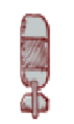
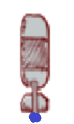
Update
Big Update

Changed region(s): [[0.3784, 0.8952, 0.5676, 0.9919]]

diff --git a/enemy.py b/enemy.py
@@ -1,43 +1,99 @@
 from player import xy
 import pygame
 import random
-ST2=0
+ST=5
 size=[40,55]
+size2=[20,25]
+xye=[0,0]
 class EmeCar(pygame.sprite.Sprite):
-    def __init__(self):
+        def __init__(self):
                 pygame.sprite.Sprite.__init__(self)
-                self.xy=[0,0]
+                self.xy=xye
                 self.image=pygame.image.load("./img/tanke.png").convert_alpha()
                 self.image=pygame.transform.scale(self.image,size)
                 self.rect=self.image.get_rect()
                 self.re=0
                 self.V=1
+                self.angle=0
+                self.bmove=0
+                self.towards=4
                 self.posi=self.rect
-    def update(self):#the main function of enemy
-        posi=self.rect
-        self.image=pygame.image.load("./img/tanke.png").convert_alpha()
-        self.image=pygame.transform.scale(self.image,size)
-        self.move=random.randint(1,2)
-        if xy[0]<self.xy[0]:
-                self.xy[0]-=self.V
-                self.image=pygame.transform.rotate(self.image,90)
-                pygame.time.wait(ST2)
-        if xy[0]>self.xy[0]:
-                self.xy[0]+=self.V
-                self.image=pygame.transform.rotate(self.image,-90)
-                pygame.time.wait(ST2)
-        if xy[1]>self.xy[1]:
-                self.xy[1]+=self.V
-                self.image=pygame.transform.rotate(self.image,180)
-                pygame.time.wait(ST2)
-        if xy[1]<self.xy[1]:
-                self.xy[1]-=self.V
-                pygame.time.wait(ST2)
-        self.posi=posi.move(self.xy)
-    def Create(self):
-        if self.re==0:
-                self.xy[0]=random.randint(0,1550)
-                self.xy[1]=random.randint(0,850)
-                if xy[1]-100<=self.xy[1]<=xy[1]+100 and xy[0]-100<=self.xy[0]<=xy[0]+100:
-                        self.re=0
-                self.re+=1
+        def update(self):#the main function of enemy
+                posi=self.rect
+                self.image=pygame.image.load("./img/tanke.png").convert_alpha()
+                self.image=pygame.transform.scale(self.image,size)
+                self.move=random.randint(1,200)
+                if xy[0]<xye[0]:
+                        xye[0]-=self.V
+                        self.image=pygame.transform.rotate(self.image,90)
+                        self.angle=90
+                        self.towards=1
+                if xy[0]>xye[0]:
+                        xye[0]+=self.V
+                        self.image=pygame.transform.rotate(self.image,-90)
+                        self.angle=-90
+                        self.towards=3
+                if xy[1]>xye[1]:
+                        xye[1]+=self.V
+                        self.image=pygame.transform.rotate(self.image,180)
+                        self.angle=180
+                        self.towards=2
+                if xy[1]<xye[1]:
+                        xye[1]-=self.V
+                        self.angle=0
+                        self.towards=4
+                if self.move<=100 and self.bmove==0:
+                        self.bmove=1
+                if self.bmove==2:
+                        pygame.time.wait(ST)
+                        self.bmove=0
+                self.posi=posi.move(self.xy)
+                
+        def Create(self):
+                if self.re==0:
+                        xye[0]=random.randint(0,1550)
+                        xye[1]=random.randint(0,850)
+                        if xy[1]-100<=xye[1]<=xy[1]+100 and xy[0]-100<=xye[0]<=xy[0]+100:
+                                self.re=0
+                        self.re+=1
+                
+class EnBullet(pygame.sprite.Sprite):
+        def __init__(self):
+                pygame.sprite.Sprite.__init__(self)
+                self.image=pygame.image.load("./img/bullete.png").convert_alpha()
+                self.image=pygame.transform.scale(self.image,size)
+                self.v=5
+                self.rect=self.image.get_rect()
+                self.posi=self.rect
+                self.move=0
+                self.toward=4
+                self.angle=0
+                self.xy=[0,0]
+        def update(self):
+                posi=self.rect
+                if self.move==0:
+                        self.image=pygame.image.load("./img/K.png").convert_alpha()
+                        self.xy[0]=xye[0]
+                        self.xy[1]=xye[1]
+                else:
+                        if self.move==1:
+                                self.image=pygame.image.load("./img/bullete.png").convert_alpha()
+                                self.image = pygame.transform.scale(self.image, size)
+                                if self.toward==4:
+                                        self.xy[1]-=self.v
+                                if self.toward==2:
+                                        self.xy[1]+=self.v
+                                        self.image=pygame.transform.rotate(self.image,180)
+                                if self.toward==3:
+                                        self.xy[0]+=self.v
+                                        self.image=pygame.transform.rotate(self.image,-90)
+                                if self.toward==1:
+                                        self.xy[0]-=self.v
+                                        self.image=pygame.transform.rotate(self.image,90)
+                                if self.xy[0]<0 or self.xy[0]>1550 or self.xy[1]>850 or self.xy[1] < 0:
+                                        self.move=0
+                        if self.move==2:
+                                pygame.time.wait(ST)
+                                self.move=0
+                self.posi=posi.move(self.xy)
+                

diff --git a/player.py b/player.py
@@ -8,13 +8,12 @@ move=0
 py=pygame
 x=0
 y=0
+ST=5
 clock = pygame.time.Clock()
 size=[40,55]
 size2=[55,43]
 sizet=[20,25]
-ST=2
-xy=[0,0]
-ST2=0    
+xy=[0,0]  
 class Player(pygame.sprite.Sprite):
         def __init__(self):
                 pygame.sprite.Sprite.__init__(self)
@@ -37,25 +36,21 @@ class Player(pygame.sprite.Sprite):
                                 self.image =py.image.load("./img/tankt.png").convert_alpha()
                                 self.image = pygame.transform.scale(self.image, size)
                                 self.image=py.transform.rotate(self.image,90)
-                                pygame.time.wait(ST)
                         if keys[pygame.K_RIGHT] or keys[pygame.K_d]:
                                 xy[0] +=self.v
                                 self.image =py.image.load("./img/tankt.png").convert_alpha()
                                 self.image = pygame.transform.scale(self.image, size)
                                 self.image=py.transform.rotate(self.image,-90)
-                                pygame.time.wait(ST)
                 if not keys[pygame.K_RIGHT] and not  keys[pygame.K_d] and not keys[pygame.K_LEFT] and not keys[pygame.K_a]:
                         if keys[pygame.K_UP] or keys[pygame.K_w]:
                                 xy[1] -=self.v
                                 self.image =py.image.load("./img/tankt.png").convert_alpha()
                                 self.image = pygame.transform.scale(self.image, size)
-                                pygame.time.wait(ST)
                         if keys[pygame.K_DOWN] or keys[pygame.K_s]:
                                 xy[1] += self.v
                                 self.image =py.image.load("./img/tankt.png").convert_alpha()
                                 self.image = pygame.transform.scale(self.image, size)
                                 self.image=py.transform.rotate(self.image,180)
-                                pygame.time.wait(ST)
                 self.posi=posi.move(self.xy)
 
 class Bullet(pygame.sprite.Sprite):#the bullet part
@@ -76,6 +71,7 @@ class Bullet(pygame.sprite.Sprite):#the bullet part
                 self.image = pygame.transform.scale(self.image, size)
                 keys=pygame.key.get_pressed()
                 if self.move==0:
+                        self.image =py.image.load("./img/K.png").convert_alpha()
                         if keys[pygame.K_UP] or keys[pygame.K_w]:
                                 self.toward=1
                                 self.angle=0
@@ -96,18 +92,22 @@ class Bullet(pygame.sprite.Sprite):#the bullet part
                         self.image=py.transform.rotate(self.image,self.angle)
                         
                 else:
-                        if self.toward==1:
-                                self.xy[1]-=self.v
-                        if self.toward==2:
-                                self.xy[1]+=self.v
-                                self.image=py.transform.rotate(self.image,180)
-                        if self.toward==3:
-                                self.xy[0]-=self.v
-                                self.image=py.transform.rotate(self.image,90)
-                        if self.toward==4:
-                                self.xy[0]+=self.v
-                                self.image=py.transform.rotate(self.image,-90)
-                        if self.xy[0]<0 or self.xy[0]>1550 or self.xy[1]>850 or self.xy[1] < 0:
+                        if self.move==1:
+                                if self.toward==1:
+                                        self.xy[1]-=self.v
+                                if self.toward==2:
+                                        self.xy[1]+=self.v
+                                        self.image=py.transform.rotate(self.image,180)
+                                if self.toward==3:
+                                        self.xy[0]-=self.v
+                                        self.image=py.transform.rotate(self.image,90)
+                                if self.toward==4:
+                                        self.xy[0]+=self.v
+                                        self.image=py.transform.rotate(self.image,-90)
+                                if self.xy[0]<0 or self.xy[0]>1550 or self.xy[1]>850 or self.xy[1] < 0:
+                                        self.move=0
+                        if self.move==2:
+                                pygame.time.wait(ST)
                                 self.move=0              
                 self.posi=posi.move(self.xy)
                         

diff --git a/main.py b/main.py
@@ -1,5 +1,5 @@
 import pygame
-from enemy import EmeCar
+from enemy import EmeCar,EnBullet
 from player import Player
 from player import Bullet
 import sys
@@ -10,9 +10,11 @@ py.init
 scr=py.display.set_mode((1550,850),pygame.NOFRAME)#init of screen
 py.display.set_caption("Tank War")
 all_sprites = pygame.sprite.Group()
+boom=py.image.load("./img/boom.png").convert_alpha()
 player=Player()
 enemy=EmeCar()
 bullet=Bullet()
+enbullet=EnBullet()
 all_sprites.add(player,enemy)
 def MainPlayer():
         player.update()
@@ -25,11 +27,25 @@ def MainPlayer():
         if enemy.xy[0]-40<=bullet.xy[0]<=enemy.xy[0]+40 and enemy.xy[1]-20<=bullet.xy[1]<=enemy.xy[1]+20 and bullet.move==1:
             bullet.move=0
             enemy.re=0
+        if bullet.xy[1]-20<=enbullet.xy[1]<bullet.xy[1]+20 and bullet.xy[0]-20<=enbullet.xy[0]<=bullet.xy[0]+20 and bullet.move==1:
+            scr.blit(boom,bullet.posi)
+            bullet.move=2
+            enbullet.move=2
+            enemy.bmove=2
         
 def EnemyMove():
     enemy.Create()
     enemy.update()
     scr.blit(enemy.image,enemy.posi)
+    enbullet.update()
+    if enbullet.move==0:
+        enbullet.image=pygame.transform.rotate(enbullet.image,enemy.angle)
+        enbullet.toward=enemy.towards
+        enbullet.move=enemy.bmove
+        scr.blit(enbullet.image,enemy.posi)
+    if enbullet.move==1:
+        scr.blit(enbullet.image,enbullet.posi)
+        enemy.bmove=0
 def main():
     scr.fill((255,255,255))
     MainPlayer()
